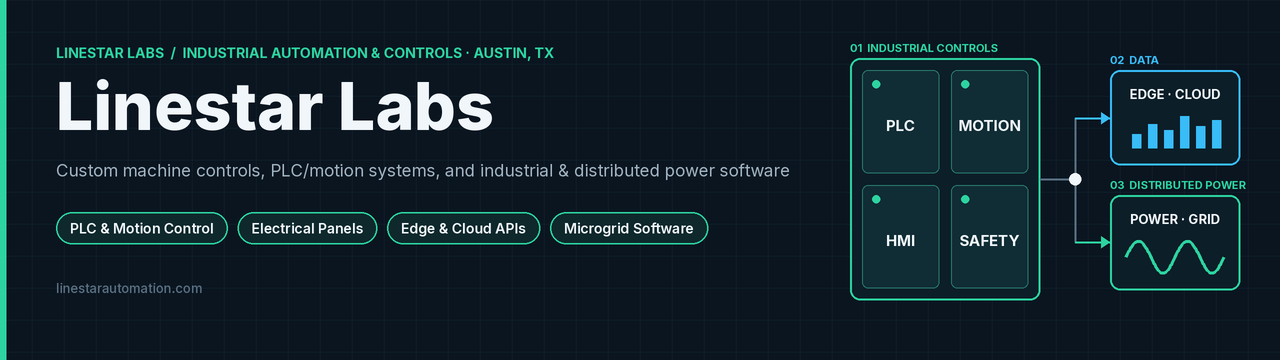
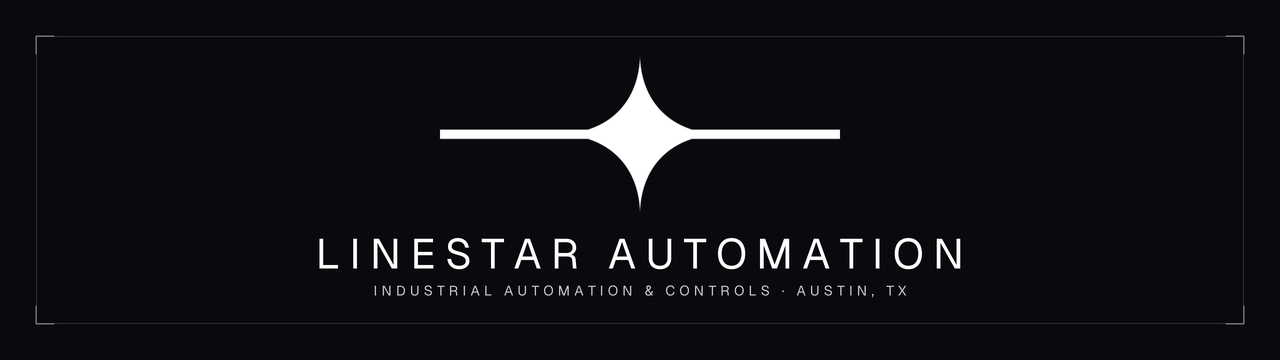
brand: Option B org profile with Line + Star identity
Rebuild the GitHub org profile around Linestar Automation
(industrial automation & controls, Austin) using the locked
obsidian + white Line + Star mark. Replace the Labs/microgrid
banner, README, and demo animation; add a reusable mark.svg.

diff --git a/README.md b/README.md
@@ -1,114 +1,28 @@
 <p align="center">
-  <img src="https://raw.githubusercontent.com/linestarlabs/.github/main/assets/banner.png" alt="Linestar Labs: industrial automation and controls, PLC and motion systems, and industrial and distributed power software. Austin, TX" width="100%">
+  <img src="https://raw.githubusercontent.com/linestar-automation/.github/main/assets/banner.png" alt="Linestar Automation — Industrial Automation &amp; Controls · Austin, TX" width="100%">
 </p>
 
-# Linestar Labs
+# Linestar Automation
 
-**Industrial automation and controls engineering from Austin, Texas.** Linestar Labs is the software side of **[Linestar Automation](https://linestarautomation.com)**, a design-build shop that engineers the electrical and control side of custom machines for manufacturers and mechanical-engineering firms.
+**Industrial Automation & Controls Engineering · Austin, TX**
 
-Linestar was founded by **Frank Zeiler**, its President & Principal Engineer. Frank has a BS in Mechanical Engineering from UT Austin and more than 40 years in machine design, motion control and power control. He is also President of the **[ISA Bluebonnet Section](https://connect.isa.org/communities/community-home?CommunityKey=1d16157a-fa10-41cc-8525-a17aaec80501)** of the International Society of Automation, which covers Central Texas.
+Linestar Automation is a design-build industrial automation and controls shop, and a DBA of **LSA Labs LLC**. We engineer custom machine controls, PLC/SCADA systems, and plant telemetry for manufacturers and machine builders.
 
-## What we build
+The work is backed by **Frank Zeiler's 40+ years** of hands-on industrial automation, custom machine controls, PLC/SCADA, and instrumentation engineering, and by his leadership as **President of the [ISA Bluebonnet Section](https://connect.isa.org/communities/community-home?CommunityKey=1d16157a-fa10-41cc-8525-a17aaec80501)** (Central Texas).
 
-| Capability | What it means on your machine |
-|---|---|
-| 🎛 **Control systems & PLC/HMI** | PLC programming, touchscreen operator interfaces and machine-to-machine communication |
-| ⚙ **Motion control** | Multi-axis servo and robot control, from precision stages to 6-axis robots (Beckhoff / EtherCAT) |
-| 🔌 **Electrical panels & power distribution** | Control enclosures, switchgear and fail-safe power distribution, up to 400 A / 480 V three-phase |
-| 🛑 **Safety systems** | Emergency stops and automated safety systems that help keep lines OSHA-compliant |
-| 📈 **Data logging** | Production-rate and fault logging, so you always know what the machine is doing |
-| 🛠 **Prototype → install** | Design, prototyping, build and installation, usually in **3 to 6 months** |
+## Three pillars
 
-<p align="center">
-  <img src="https://raw.githubusercontent.com/linestarlabs/.github/main/assets/demo.gif" alt="Animation: how Linestar's controls, machines, edge software and power systems connect" width="85%">
-</p>
+**1. Custom Machine Controls & PLC/SCADA Engineering**  
+Rockwell/Allen-Bradley, Siemens, Beckhoff, and Yaskawa. OPC-UA, Modbus, and EtherNet/IP. Control panels designed to UL 508A standards, and legacy plant retrofits.
 
----
+**2. Support / Monitor / Assure**  
+Recurring plant telemetry, alarming, and remote diagnostics retainers for installed machines.
 
-## Selected projects
+**3. AI-Assisted Commissioning & Diagnostics**  
+Modern AI copilot workflows built on 40+ years of controls engineering expertise.
 
-- **Concrete 3D-printing robot.** Linestar built the control system, power distribution and motion control (6-axis robot, EtherCAT on a Beckhoff controller) for a concrete-structure 3D printer in 2017. ICON and New Story named Linestar Automation as a partner on the **Vulcan** printer that printed the first permitted 3D-printed home in Austin (2018).
-- **Holographic imaging for U.S. military mapping.** One of Linestar's first big jobs: power, laser and motion control for a high-precision optomechanical holographic imaging machine.
-- **High-pressure drill-bit tester (Houston).** PLC control of a 20,000 PSI test chamber with a 100 kW servo and 400 A / 480 V three-phase power distribution.
-- **Laser notching and wire winding (San Marcos, TX).** Motion control, touchscreen HMI, power distribution and safety systems for a precision electrical-component maker.
-- **Data-center HPC robotics.** Motion control, safety and power distribution for a compact high-performance-computing system that swaps servers robotically, plus process control for 2-phase liquid cooling.
-- **Cobot electronics testing.** Portable cobot cells that test digital multimeters, with six built for one client.
-- **Automated Magnet Mover.** An API-driven machine that replaced a manual magnetic-wand process. It is controlled by [linestar-py](https://github.com/linestarlabs/linestar-py).
-- **Energy storage and microgrids.** A 12 kWh industrial UPS (Linestar's first energy-storage system) and, per Linestar, an energy switch for the U.S. Department of Energy's SunShot program.
+## Website
 
-See all case studies at **[linestarautomation.com/projects](https://linestarautomation.com/projects)**.
+The public site is **[linestarautomation.com](https://linestarautomation.com)**. Source lives in [`linestar-automation/linestarautomation.com`](https://github.com/linestar-automation/linestarautomation.com).
 
-## Our story
-
-| When | Milestone |
-|------|-----------|
-| 1980–2007 | Frank Zeiler earns a BS in Mechanical Engineering from UT Austin, then holds engineering roles at APV / Invensys, Advanced System Integration and Zebra Imaging |
-| 2008–2010 | Linestar starts in Austin, with an early holographic-imaging machine for U.S. military applications |
-| 2012 | Builds its first energy-storage system, a 12 kWh industrial UPS |
-| 2013–2015 | Builds laser-notching and wire-winding controls, robotic assembly, UV curing and electro-optical inspection cells. LSA Labs LLC is formed (2013) |
-| 2014–2016 | Adds microgrid control systems, including the DOE SunShot energy switch |
-| 2017–2018 | Builds the drill-bit test system and the Beckhoff / EtherCAT control system for the concrete 3D printer, and is named an ICON / New Story Vulcan partner |
-| 2019–2020 | Builds data-center HPC robotics and cooling controls, plus cobot test cells |
-| 2022 | Adds home microgrids and the Linestar Power Server, along with blockchain-backed machine data logging, and starts this GitHub org |
-| 2023 | Releases the Automated Magnet Mover with an API, Python and C++ PLC clients, Yaskawa MP3300 work and an IEC 61131-3 runtime |
-| 2024 → today | Continues custom controls work and expands distributed-power software R&D |
-
----
-
-## 1 · 🏭 Industrial automation & PLC control
-
-Software for commanding the PLC-controlled machines we build and for running PLC programs on commodity hardware.
-
-| Repo | Stack | What it does |
-|------|-------|--------------|
-| [**linestar-py**](https://github.com/linestarlabs/linestar-py) | Python | `PLCMagnetMover` client (pycomm3 / EtherNet/IP), Click CLI and Flask-RESTX API: wake, home, go to position, and report location and errors |
-| [**linestar-cpp**](https://github.com/linestarlabs/linestar-cpp) | C++17 | Pistache REST controller and Boost CLI skeleton for the same machine operations (work in progress) |
-| [**ReactInnovations**](https://github.com/linestarlabs/ReactInnovations) | Yaskawa | Yaskawa MP3300 PLC controller logic, API and client software (placeholder) |
-| [**echidna**](https://github.com/linestarlabs/echidna) | C | Fork of [61131/echidna](https://github.com/61131/echidna), an IEC 61131-3 compiler and VM runtime (runs on a Raspberry Pi with PiFace I/O) |
-
-## 2 · ⚡ Distributed power & microgrid R&D
-
-**Active, exploratory software.** This work grows out of Linestar's industrial UPS and microgrid-controls projects. It includes a Raspberry Pi power server, a Go microgrid controller, EcoFlow device tooling, and cloud APIs and apps for monitoring local grids of batteries, solar, generators and loads. Expect prototypes and moving interfaces.
-
-| Repo | Stack | What it does |
-|------|-------|--------------|
-| [**power-server-brain-pi**](https://github.com/linestarlabs/power-server-brain-pi) | Rust | Software for the Linestar Central Power Server on a Raspberry Pi |
-| [**microgrid**](https://github.com/linestarlabs/microgrid) | Go | Controller daemon plus a Hub WebSocket server, shipped as a `.deb` with systemd |
-| [**microgrid-cli**](https://github.com/linestarlabs/microgrid-cli) | Go | CLI for grids, batteries, consumers and event subscriptions |
-| [**homebrew-microgrid**](https://github.com/linestarlabs/homebrew-microgrid) | Ruby | `brew tap linestarlabs/microgrid && brew install microgrid` |
-| [**ecoflow-ts**](https://github.com/linestarlabs/ecoflow-ts) | TypeScript | Signed client for the EcoFlow IoT Open API (power stations used as grid batteries) |
-| [**api.microgridstore.com**](https://github.com/linestarlabs/api.microgridstore.com) | TypeScript | Hapi + Prisma/PostgreSQL API for grids, batteries, generators and consumers, with RabbitMQ events and WebSocket streams |
-| [**app.microgridstore.com**](https://github.com/linestarlabs/app.microgridstore.com) | TypeScript | Next.js app that shows microgrids as D3 force graphs |
-| [**myhomegrid-app**](https://github.com/linestarlabs/myhomegrid-app) | JavaScript | Expo / React Native MyHomeGrid mobile app (UI prototype) |
-| [**linestarpower.com**](https://github.com/linestarlabs/linestarpower.com) | TypeScript | Next.js site and account portal for Linestar Power, with Supabase auth |
-
-## 3 · 🌐 Web products & dashboards
-
-| Repo | Stack | What it does |
-|------|-------|--------------|
-| [**linestarautomation.com-react**](https://github.com/linestarlabs/linestarautomation.com-react) | JavaScript | The Linestar Automation website: services, case studies and blog |
-| [**linestar.tech-nodejs**](https://github.com/linestarlabs/linestar.tech-nodejs) | TypeScript | Hapi API for products, machine events, a home-power dashboard, Prometheus metrics and on-chain machine telemetry |
-| [**linestar.tech-react**](https://github.com/linestarlabs/linestar.tech-react) | JavaScript | Dashboard for the Home Power System and Linestar products |
-| [**modernize-admin-dashboard**](https://github.com/linestarlabs/modernize-admin-dashboard) | TypeScript | Next.js 14 + MUI admin template kept as a dashboard starter |
-
----
-
-## Quick starts
-
-```bash
-# Drive a PLC Magnet Mover from Python (EtherNet/IP)
-git clone https://github.com/linestarlabs/linestar-py && cd linestar-py
-pip install -r requirements.txt
-ETHERNET_IP_ADDRESS=192.168.1.100 python plc_magnet_mover.py
-
-# Microgrid controller on macOS (R&D)
-brew tap linestarlabs/microgrid && brew install microgrid
-```
-
-## Work with Linestar
-
-Have a machine that needs controls, a panel, motion or safety work? Get in touch.
-
-🌐 [linestarautomation.com](https://linestarautomation.com) · 📍 8711 Burnet Rd, Suite B-31, Austin, TX 78757 · ☎ +1 (512) 963-0939 · ✉ [FZeiler@LineStarAutomation.com](mailto:FZeiler@LineStarAutomation.com)
-
-<sub>Each repo's README includes a banner, a demo animation and setup instructions. Issues and pull requests are welcome.</sub>
+[linestarautomation.com](https://linestarautomation.com) · [info@linestarautomation.com](mailto:info@linestarautomation.com)

diff --git a/profile/README.md b/profile/README.md
@@ -1,114 +1,28 @@
 <p align="center">
-  <img src="https://raw.githubusercontent.com/linestarlabs/.github/main/assets/banner.png" alt="Linestar Labs: industrial automation and controls, PLC and motion systems, and industrial and distributed power software. Austin, TX" width="100%">
+  <img src="https://raw.githubusercontent.com/linestar-automation/.github/main/assets/banner.png" alt="Linestar Automation — Industrial Automation &amp; Controls · Austin, TX" width="100%">
 </p>
 
-# Linestar Labs
+# Linestar Automation
 
-**Industrial automation and controls engineering from Austin, Texas.** Linestar Labs is the software side of **[Linestar Automation](https://linestarautomation.com)**, a design-build shop that engineers the electrical and control side of custom machines for manufacturers and mechanical-engineering firms.
+**Industrial Automation & Controls Engineering · Austin, TX**
 
-Linestar was founded by **Frank Zeiler**, its President & Principal Engineer. Frank has a BS in Mechanical Engineering from UT Austin and more than 40 years in machine design, motion control and power control. He is also President of the **[ISA Bluebonnet Section](https://connect.isa.org/communities/community-home?CommunityKey=1d16157a-fa10-41cc-8525-a17aaec80501)** of the International Society of Automation, which covers Central Texas.
+Linestar Automation is a design-build industrial automation and controls shop, and a DBA of **LSA Labs LLC**. We engineer custom machine controls, PLC/SCADA systems, and plant telemetry for manufacturers and machine builders.
 
-## What we build
+The work is backed by **Frank Zeiler's 40+ years** of hands-on industrial automation, custom machine controls, PLC/SCADA, and instrumentation engineering, and by his leadership as **President of the [ISA Bluebonnet Section](https://connect.isa.org/communities/community-home?CommunityKey=1d16157a-fa10-41cc-8525-a17aaec80501)** (Central Texas).
 
-| Capability | What it means on your machine |
-|---|---|
-| 🎛 **Control systems & PLC/HMI** | PLC programming, touchscreen operator interfaces and machine-to-machine communication |
-| ⚙ **Motion control** | Multi-axis servo and robot control, from precision stages to 6-axis robots (Beckhoff / EtherCAT) |
-| 🔌 **Electrical panels & power distribution** | Control enclosures, switchgear and fail-safe power distribution, up to 400 A / 480 V three-phase |
-| 🛑 **Safety systems** | Emergency stops and automated safety systems that help keep lines OSHA-compliant |
-| 📈 **Data logging** | Production-rate and fault logging, so you always know what the machine is doing |
-| 🛠 **Prototype → install** | Design, prototyping, build and installation, usually in **3 to 6 months** |
+## Three pillars
 
-<p align="center">
-  <img src="https://raw.githubusercontent.com/linestarlabs/.github/main/assets/demo.gif" alt="Animation: how Linestar's controls, machines, edge software and power systems connect" width="85%">
-</p>
+**1. Custom Machine Controls & PLC/SCADA Engineering**  
+Rockwell/Allen-Bradley, Siemens, Beckhoff, and Yaskawa. OPC-UA, Modbus, and EtherNet/IP. Control panels designed to UL 508A standards, and legacy plant retrofits.
 
----
+**2. Support / Monitor / Assure**  
+Recurring plant telemetry, alarming, and remote diagnostics retainers for installed machines.
 
-## Selected projects
+**3. AI-Assisted Commissioning & Diagnostics**  
+Modern AI copilot workflows built on 40+ years of controls engineering expertise.
 
-- **Concrete 3D-printing robot.** Linestar built the control system, power distribution and motion control (6-axis robot, EtherCAT on a Beckhoff controller) for a concrete-structure 3D printer in 2017. ICON and New Story named Linestar Automation as a partner on the **Vulcan** printer that printed the first permitted 3D-printed home in Austin (2018).
-- **Holographic imaging for U.S. military mapping.** One of Linestar's first big jobs: power, laser and motion control for a high-precision optomechanical holographic imaging machine.
-- **High-pressure drill-bit tester (Houston).** PLC control of a 20,000 PSI test chamber with a 100 kW servo and 400 A / 480 V three-phase power distribution.
-- **Laser notching and wire winding (San Marcos, TX).** Motion control, touchscreen HMI, power distribution and safety systems for a precision electrical-component maker.
-- **Data-center HPC robotics.** Motion control, safety and power distribution for a compact high-performance-computing system that swaps servers robotically, plus process control for 2-phase liquid cooling.
-- **Cobot electronics testing.** Portable cobot cells that test digital multimeters, with six built for one client.
-- **Automated Magnet Mover.** An API-driven machine that replaced a manual magnetic-wand process. It is controlled by [linestar-py](https://github.com/linestarlabs/linestar-py).
-- **Energy storage and microgrids.** A 12 kWh industrial UPS (Linestar's first energy-storage system) and, per Linestar, an energy switch for the U.S. Department of Energy's SunShot program.
+## Website
 
-See all case studies at **[linestarautomation.com/projects](https://linestarautomation.com/projects)**.
+The public site is **[linestarautomation.com](https://linestarautomation.com)**. Source lives in [`linestar-automation/linestarautomation.com`](https://github.com/linestar-automation/linestarautomation.com).
 
-## Our story
-
-| When | Milestone |
-|------|-----------|
-| 1980–2007 | Frank Zeiler earns a BS in Mechanical Engineering from UT Austin, then holds engineering roles at APV / Invensys, Advanced System Integration and Zebra Imaging |
-| 2008–2010 | Linestar starts in Austin, with an early holographic-imaging machine for U.S. military applications |
-| 2012 | Builds its first energy-storage system, a 12 kWh industrial UPS |
-| 2013–2015 | Builds laser-notching and wire-winding controls, robotic assembly, UV curing and electro-optical inspection cells. LSA Labs LLC is formed (2013) |
-| 2014–2016 | Adds microgrid control systems, including the DOE SunShot energy switch |
-| 2017–2018 | Builds the drill-bit test system and the Beckhoff / EtherCAT control system for the concrete 3D printer, and is named an ICON / New Story Vulcan partner |
-| 2019–2020 | Builds data-center HPC robotics and cooling controls, plus cobot test cells |
-| 2022 | Adds home microgrids and the Linestar Power Server, along with blockchain-backed machine data logging, and starts this GitHub org |
-| 2023 | Releases the Automated Magnet Mover with an API, Python and C++ PLC clients, Yaskawa MP3300 work and an IEC 61131-3 runtime |
-| 2024 → today | Continues custom controls work and expands distributed-power software R&D |
-
----
-
-## 1 · 🏭 Industrial automation & PLC control
-
-Software for commanding the PLC-controlled machines we build and for running PLC programs on commodity hardware.
-
-| Repo | Stack | What it does |
-|------|-------|--------------|
-| [**linestar-py**](https://github.com/linestarlabs/linestar-py) | Python | `PLCMagnetMover` client (pycomm3 / EtherNet/IP), Click CLI and Flask-RESTX API: wake, home, go to position, and report location and errors |
-| [**linestar-cpp**](https://github.com/linestarlabs/linestar-cpp) | C++17 | Pistache REST controller and Boost CLI skeleton for the same machine operations (work in progress) |
-| [**ReactInnovations**](https://github.com/linestarlabs/ReactInnovations) | Yaskawa | Yaskawa MP3300 PLC controller logic, API and client software (placeholder) |
-| [**echidna**](https://github.com/linestarlabs/echidna) | C | Fork of [61131/echidna](https://github.com/61131/echidna), an IEC 61131-3 compiler and VM runtime (runs on a Raspberry Pi with PiFace I/O) |
-
-## 2 · ⚡ Distributed power & microgrid R&D
-
-**Active, exploratory software.** This work grows out of Linestar's industrial UPS and microgrid-controls projects. It includes a Raspberry Pi power server, a Go microgrid controller, EcoFlow device tooling, and cloud APIs and apps for monitoring local grids of batteries, solar, generators and loads. Expect prototypes and moving interfaces.
-
-| Repo | Stack | What it does |
-|------|-------|--------------|
-| [**power-server-brain-pi**](https://github.com/linestarlabs/power-server-brain-pi) | Rust | Software for the Linestar Central Power Server on a Raspberry Pi |
-| [**microgrid**](https://github.com/linestarlabs/microgrid) | Go | Controller daemon plus a Hub WebSocket server, shipped as a `.deb` with systemd |
-| [**microgrid-cli**](https://github.com/linestarlabs/microgrid-cli) | Go | CLI for grids, batteries, consumers and event subscriptions |
-| [**homebrew-microgrid**](https://github.com/linestarlabs/homebrew-microgrid) | Ruby | `brew tap linestarlabs/microgrid && brew install microgrid` |
-| [**ecoflow-ts**](https://github.com/linestarlabs/ecoflow-ts) | TypeScript | Signed client for the EcoFlow IoT Open API (power stations used as grid batteries) |
-| [**api.microgridstore.com**](https://github.com/linestarlabs/api.microgridstore.com) | TypeScript | Hapi + Prisma/PostgreSQL API for grids, batteries, generators and consumers, with RabbitMQ events and WebSocket streams |
-| [**app.microgridstore.com**](https://github.com/linestarlabs/app.microgridstore.com) | TypeScript | Next.js app that shows microgrids as D3 force graphs |
-| [**myhomegrid-app**](https://github.com/linestarlabs/myhomegrid-app) | JavaScript | Expo / React Native MyHomeGrid mobile app (UI prototype) |
-| [**linestarpower.com**](https://github.com/linestarlabs/linestarpower.com) | TypeScript | Next.js site and account portal for Linestar Power, with Supabase auth |
-
-## 3 · 🌐 Web products & dashboards
-
-| Repo | Stack | What it does |
-|------|-------|--------------|
-| [**linestarautomation.com-react**](https://github.com/linestarlabs/linestarautomation.com-react) | JavaScript | The Linestar Automation website: services, case studies and blog |
-| [**linestar.tech-nodejs**](https://github.com/linestarlabs/linestar.tech-nodejs) | TypeScript | Hapi API for products, machine events, a home-power dashboard, Prometheus metrics and on-chain machine telemetry |
-| [**linestar.tech-react**](https://github.com/linestarlabs/linestar.tech-react) | JavaScript | Dashboard for the Home Power System and Linestar products |
-| [**modernize-admin-dashboard**](https://github.com/linestarlabs/modernize-admin-dashboard) | TypeScript | Next.js 14 + MUI admin template kept as a dashboard starter |
-
----
-
-## Quick starts
-
-```bash
-# Drive a PLC Magnet Mover from Python (EtherNet/IP)
-git clone https://github.com/linestarlabs/linestar-py && cd linestar-py
-pip install -r requirements.txt
-ETHERNET_IP_ADDRESS=192.168.1.100 python plc_magnet_mover.py
-
-# Microgrid controller on macOS (R&D)
-brew tap linestarlabs/microgrid && brew install microgrid
-```
-
-## Work with Linestar
-
-Have a machine that needs controls, a panel, motion or safety work? Get in touch.
-
-🌐 [linestarautomation.com](https://linestarautomation.com) · 📍 8711 Burnet Rd, Suite B-31, Austin, TX 78757 · ☎ +1 (512) 963-0939 · ✉ [FZeiler@LineStarAutomation.com](mailto:FZeiler@LineStarAutomation.com)
-
-<sub>Each repo's README includes a banner, a demo animation and setup instructions. Issues and pull requests are welcome.</sub>
+[linestarautomation.com](https://linestarautomation.com) · [info@linestarautomation.com](mailto:info@linestarautomation.com)
